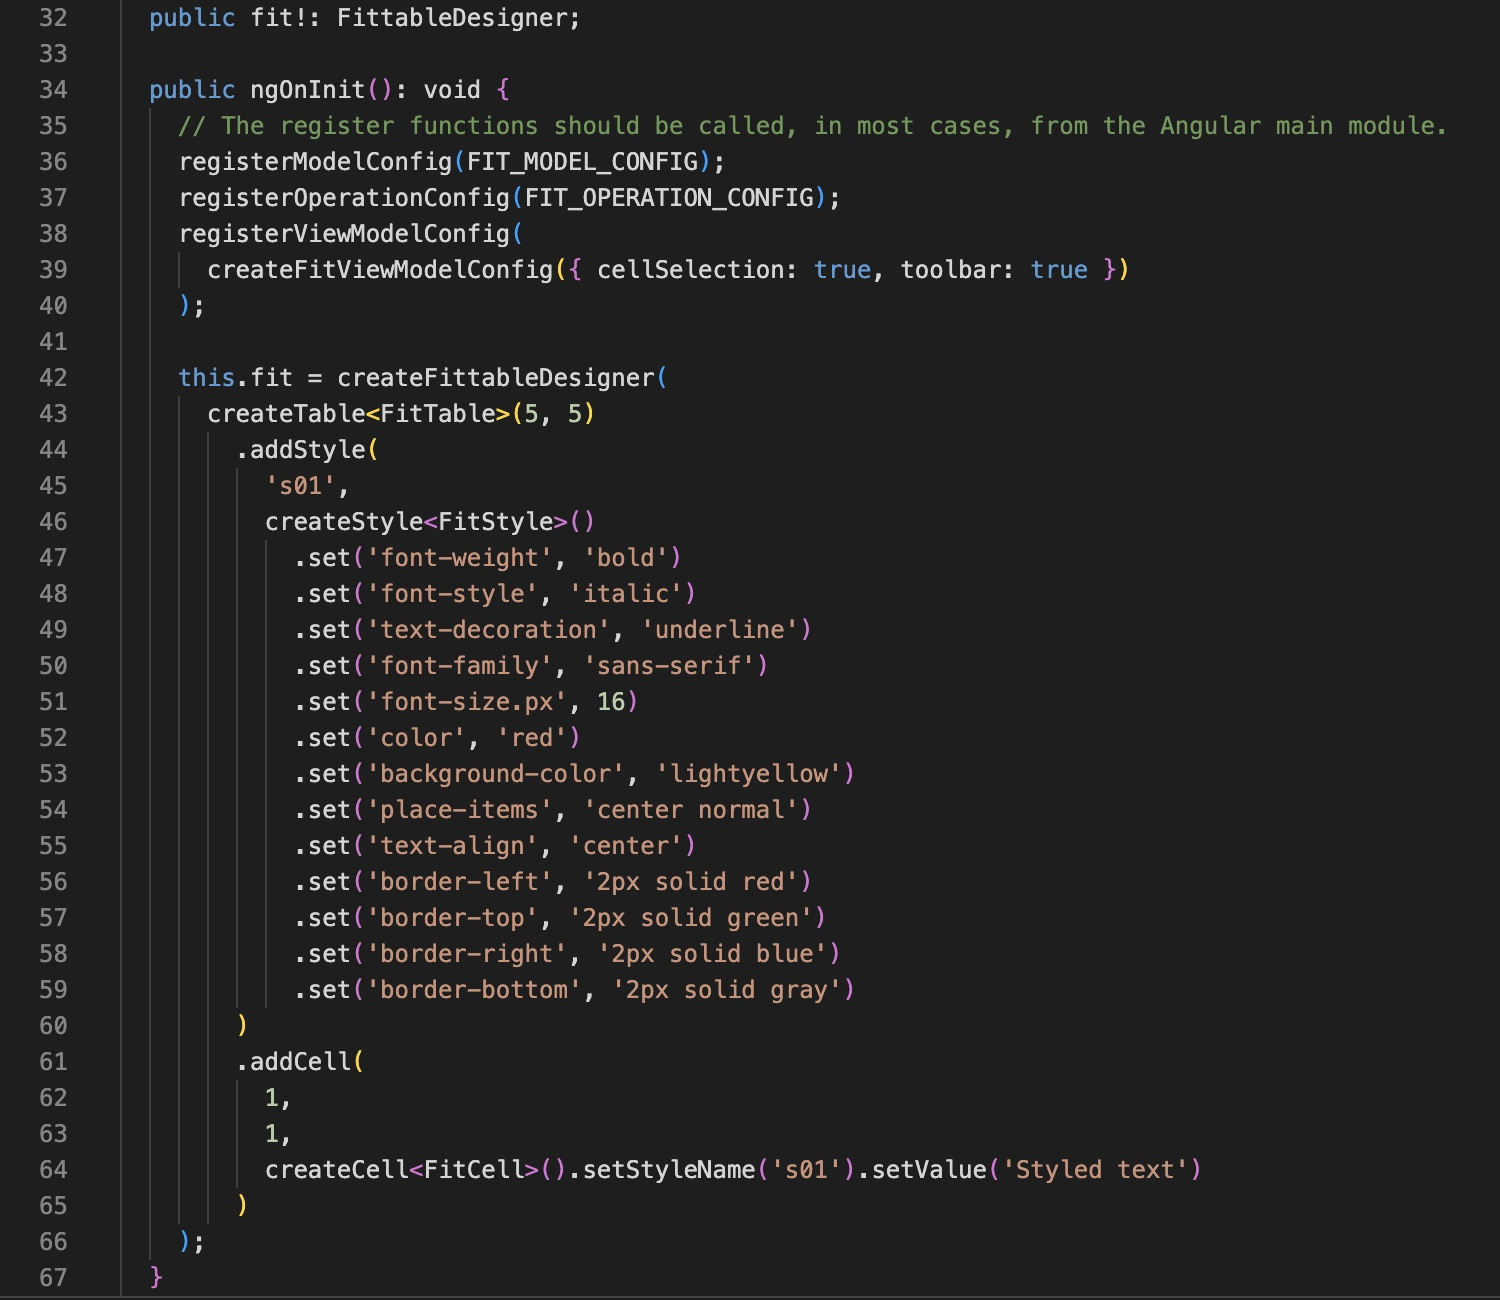
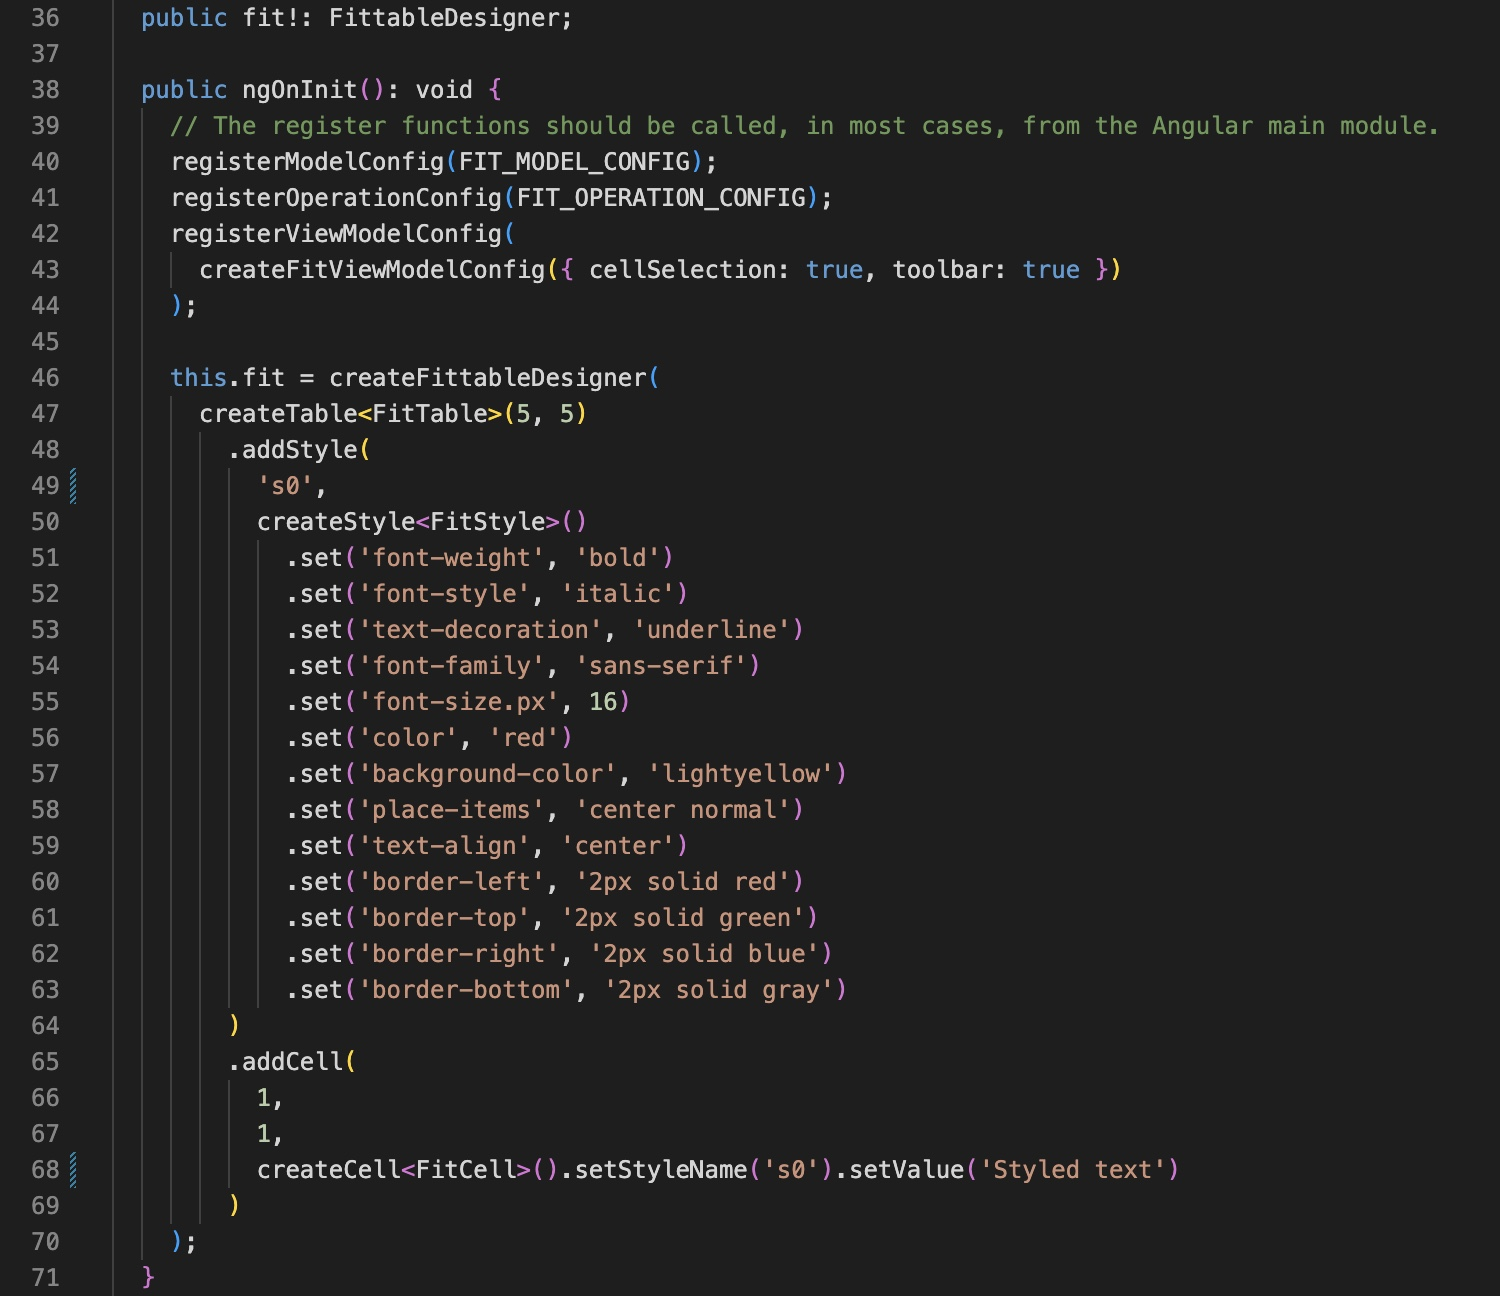
Create user docs app

Changed region(s): [[0.0, 0.0, 1.0, 1.0], [0.092, 0.0617, 0.9507, 0.2469], [0.092, 0.0, 0.3987, 0.0309]]

diff --git a/angular-app/ngx-fittable-docs/src/app/topics/table-model/cell-style.component.ts b/angular-app/ngx-fittable-docs/src/app/topics/table-model/cell-style.component.ts
@@ -46,7 +46,7 @@ export class CellStyleComponent implements SimpleTopic, OnInit {
     this.fit = createFittableDesigner(
       createTable<FitTable>(5, 5)
         .addStyle(
-          's01',
+          's0',
           createStyle<FitStyle>()
             .set('font-weight', 'bold')
             .set('font-style', 'italic')
@@ -65,7 +65,7 @@ export class CellStyleComponent implements SimpleTopic, OnInit {
         .addCell(
           1,
           1,
-          createCell<FitCell>().setStyleName('s01').setValue('Styled text')
+          createCell<FitCell>().setStyleName('s0').setValue('Styled text')
         )
     );
   }
